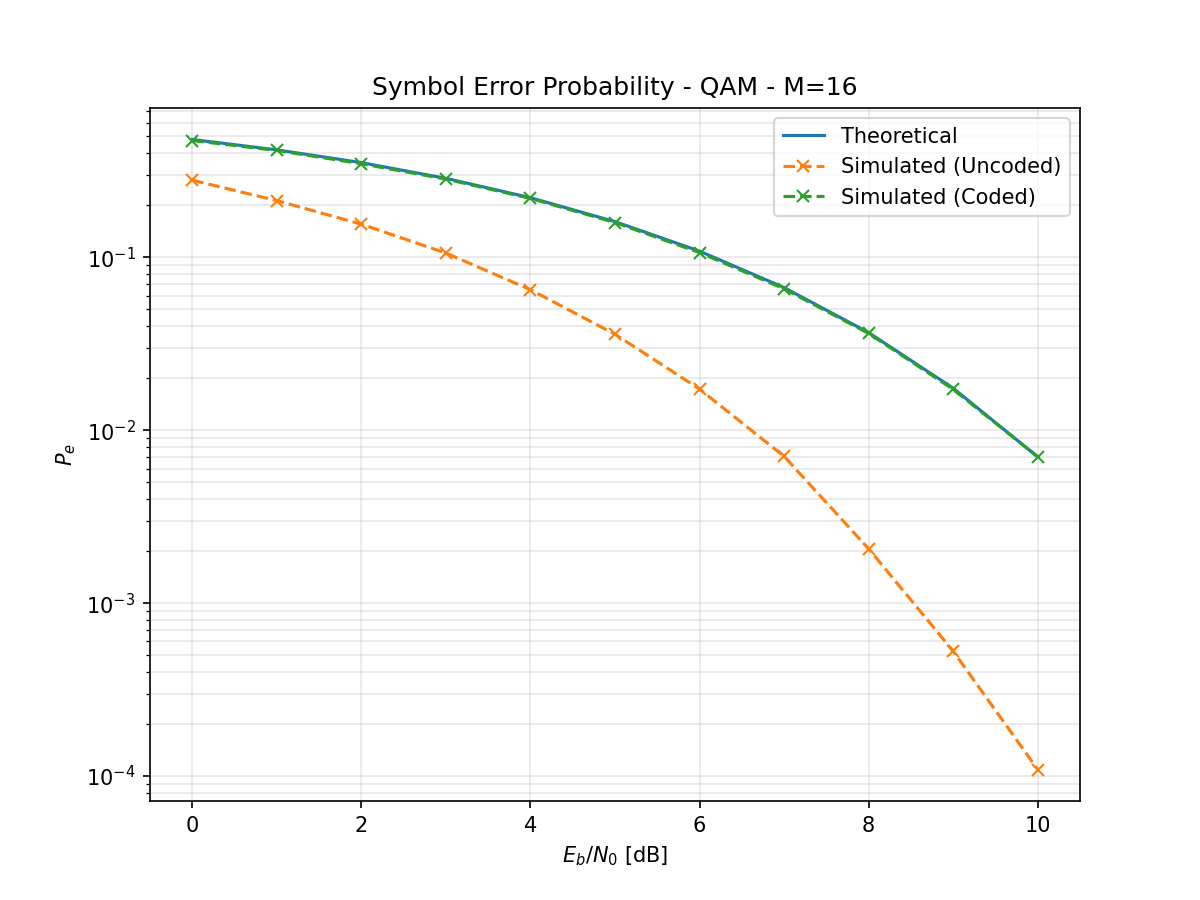
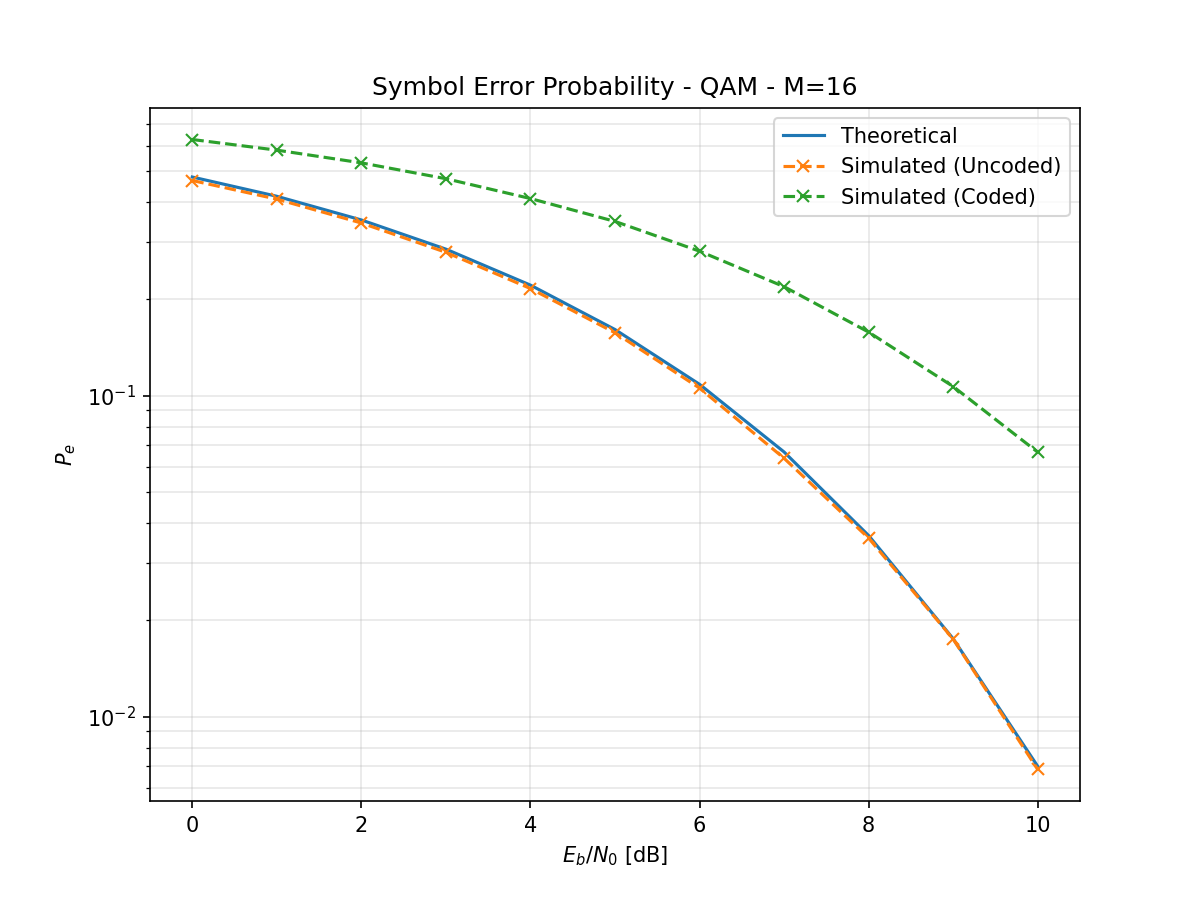
Update .gitignore and modify energy calculations in main.py; add new error curve images

diff --git a/main.py b/main.py
@@ -165,8 +165,8 @@ if __name__ == "__main__":
                 binary_vector_uncoded, _, mod_symbols_uncoded, mod_symbol_idxs_uncoded, _ = transmitter_pass(text, channel_coding=False, modulation_type=modulation_type, M=M, code_label="Gray")
 
                 # Channel effects
-                Eb_cod = 1  # Energy per bit coded
-                Eb_uncod = 1 * (k / n)  # Energy per bit uncoded (same as coded for fair comparison)
+                Eb_cod = 1  * (n / k)   # Energy per bit coded
+                Eb_uncod = 1            # Energy per bit uncoded (same as coded for fair comparison)
                 EbN0_linear = 10 ** (EbN0 / 10)  # Convert dB to linear scale
                 N_0_uncod = Eb_uncod / EbN0_linear
                 N_0_cod = Eb_cod / EbN0_linear